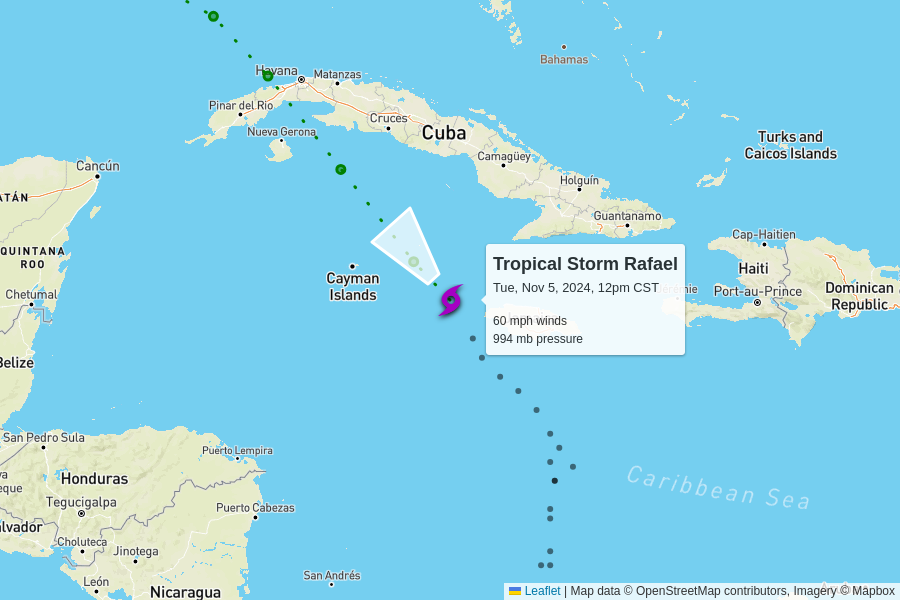
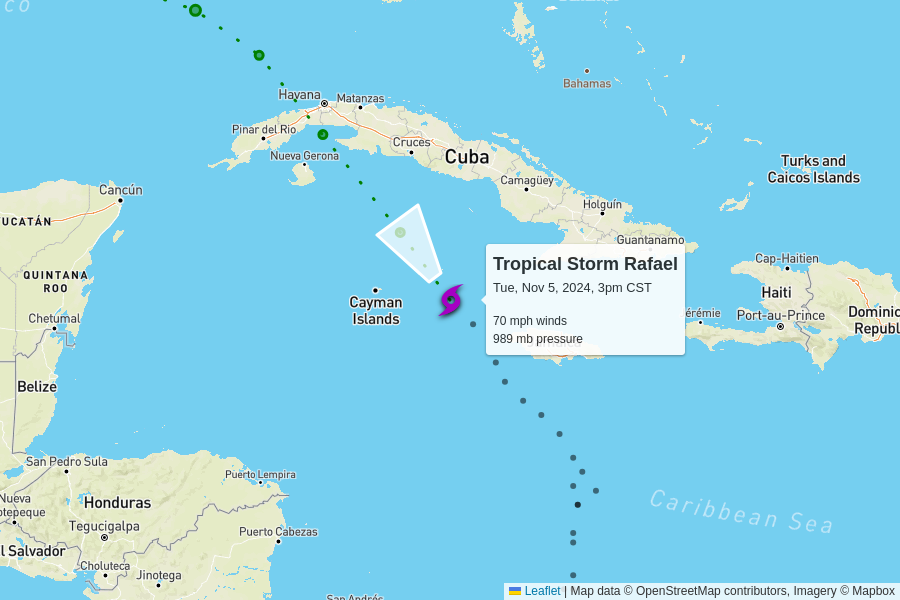
automatic update

diff --git a/docs/index.html b/docs/index.html
@@ -102,7 +102,7 @@
         <td colspan="6" class="storm category-0" >
           <h2>
             Tropical Storm Rafael
-            <p class="updated">last updated <span data-time>2024-11-05T18:00:00.000Z</span></p>
+            <p class="updated">last updated <span data-time>2024-11-05T21:00:00.000Z</span></p>
           </h2>
         </td>
       </tr>
@@ -117,12 +117,12 @@
       </tr>
       <tr>
         <td class="spacer"></td>
-        <td>60 mph<br>0 mph since last update</td>
-        <td>994 mb<br>0 mb since last update</td>
+        <td>70 mph<br>+10 mph since last update</td>
+        <td>989 mb<br>-5 mb since last update</td>
         <td>
-          14 mph to the northwest
+          15 mph to the northwest
           <br/>
-          <span style="display: inline-block; font-size: 1.5em; transform: rotate(320deg);">↑</span>
+          <span style="display: inline-block; font-size: 1.5em; transform: rotate(325deg);">↑</span>
         </td>
         <td><a href="https://raw.githubusercontent.com/mgwalker/atlantic-hurricanes/main/data/csv/AL182024.csv">AL182024.csv</a></td>
         <td><a href="https://www.nhc.noaa.gov/archive/2024/RAFAEL.shtml?">NHC advisories</a></td>
